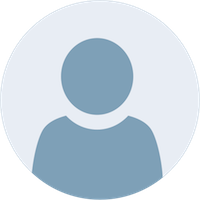
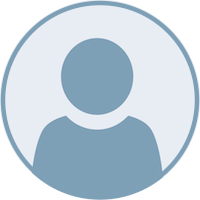
Improved the layout of the Chatbot component

Changed region(s): [[0.0, 0.0, 1.0, 0.9]]

diff --git a/client/src/components/Message/index.js b/client/src/components/Message/index.js
@@ -4,6 +4,8 @@ import PropTypes from 'prop-types';
 import Cards from '../Cards';
 import QuickReplies from '../QuickReplies';
 
+import { botAvatar, userAvatar } from '../../images';
+
 import './styles.css';
 
 const Message = (props) => {
@@ -11,11 +13,9 @@ const Message = (props) => {
     author, msg, type, onReply,
   } = props;
 
-  const renderAvatar = name => (
-    <div className="col">
-      <div className="btn-floating btn-large waves-effect waves-light red">
-        {name}
-      </div>
+  const renderAvatar = src => (
+    <div className="col s2">
+      <img src={src} alt="avatar" className="circle responsive-img" />
     </div>
   );
 
@@ -50,13 +50,13 @@ const Message = (props) => {
       <div className="col s12 m8 offset-m2 offset-l3">
         <div className="card-panel grey lighten-5 z-depth-1 small-padding">
           <div className="row valign-wrapper no-margin">
-            { author === 'bot' && renderAvatar('Bot') }
+            { author === 'bot' && renderAvatar(botAvatar) }
 
-            <div className="col s10">
+            <div className={`col s10 ${author}-message`}>
               {renderMessage()}
             </div>
 
-            { author === 'user' && renderAvatar('Me') }
+            { author === 'user' && renderAvatar(userAvatar) }
           </div>
         </div>
       </div>

diff --git a/client/src/components/Chatbot/styles.css b/client/src/components/Chatbot/styles.css
@@ -1,36 +1,40 @@
 .chatbot-container {
+  z-index: 200;
   width: 450px;
   position: absolute;
   bottom: 1px;
   border: 1px solid gray;
   box-shadow: 1px 1px 25px gray;
+  background: white;
 }
-
 .chatbot-container .chat-opened {
   height: 600px;
 }
-
 .chatbot-container .chat-closed {
   height: 65px;
 }
-
 .chatbot-container .messages {
   height: 490px;
   width: 100%;
   overflow: auto;
 }
-
 .chatbot-container .chatbot-input-wrapper input {
   margin: 0;
   padding: 0 25px;
   width: calc(100% - 50px);
 }
-
-.chatbot-container .collapse-header{
+.chatbot-container .collapse-header {
+  height: 45px;
+  line-height: 45px;
+  padding-left: 25px;
   cursor: pointer;
+  color: white;
 }
-
-.chatbot-container .toggle-show-icon{
+.chatbot-container .brand-logo {
+  font-size: 22px;
+  float: left;
+}
+.chatbot-container .toggle-show-icon {
   float: right;
   margin-right: 25px;
   font-size: 3rem;

diff --git a/client/src/components/Chatbot/index.js b/client/src/components/Chatbot/index.js
@@ -201,12 +201,12 @@ class Chatbot extends Component {
 
     return (
       <div className={`chatbot-container ${this.getContainerClass()}`}>
-        <nav className="collapse-header" onClick={this.changeShowMessages}>
+        <div className="collapse-header blue" onClick={this.changeShowMessages}>
           <div className="nav-wrapper">
             <div className="brand-logo">Messages</div>
             <i className="large material-icons toggle-show-icon">{show ? 'arrow_drop_down' : 'arrow_drop_up'}</i>
           </div>
-        </nav>
+        </div>
 
         {this.renderChatbot(show, messages)}
       </div>

diff --git a/client/src/images/index.js b/client/src/images/index.js
@@ -1,7 +1,9 @@
 import background from './background.jpg';
 import userAvatar from './userAvatar.png';
+import botAvatar from './botAvatar.png';
 
 export {
   background,
+  botAvatar,
   userAvatar,
 };

diff --git a/client/src/components/Message/styles.css b/client/src/components/Message/styles.css
@@ -5,3 +5,7 @@
 .message-container .small-padding {
   padding: 15px;
 }
+
+.message-container .user-message {
+  text-align: right;
+}
